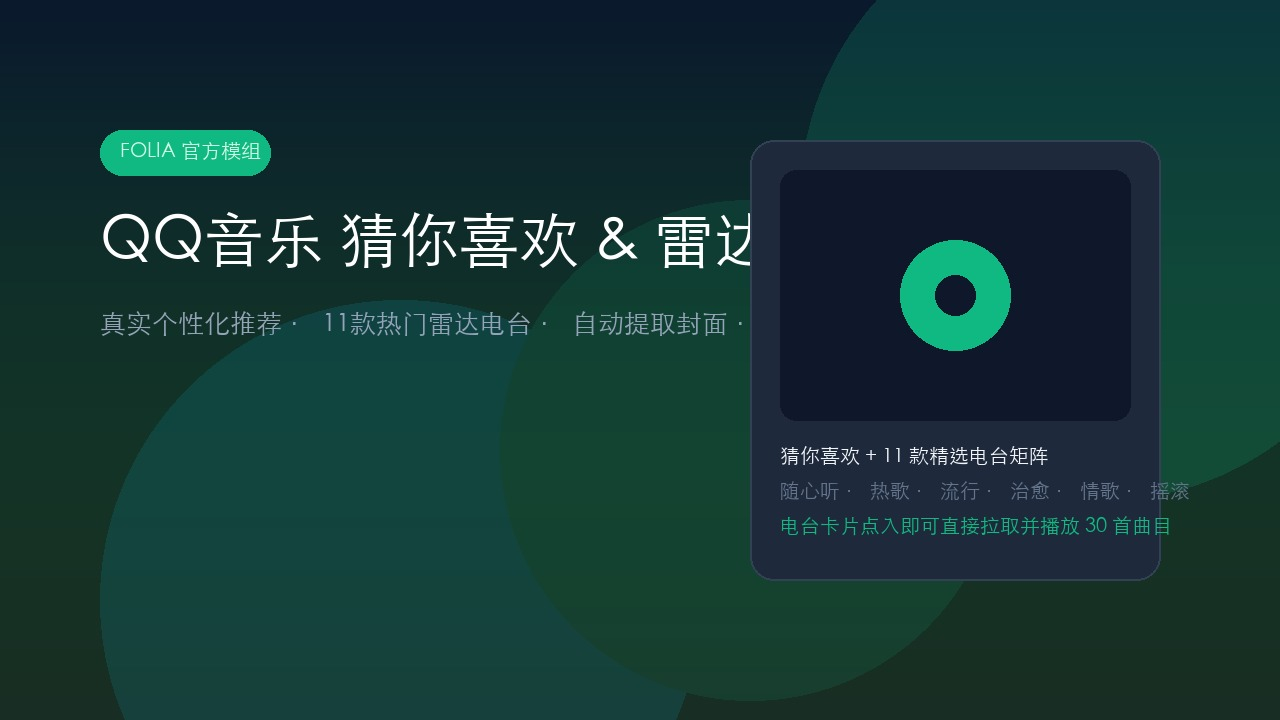
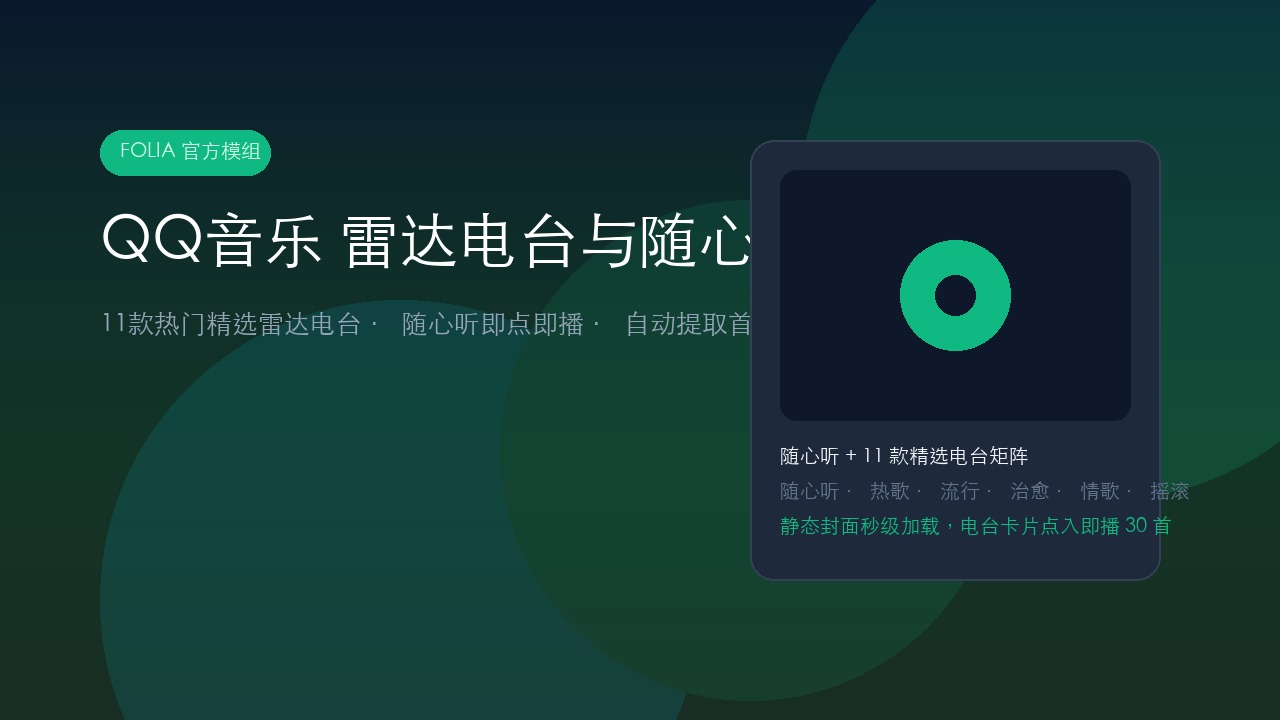
fix: address review v1.0.4 - remove credential handling, clean home feed, use static covers, handle collection tracks

diff --git a/README.md b/README.md
@@ -1,8 +1,8 @@
-# Folia 模组：QQ 音乐猜你喜欢与雷达电台 (QQ Music Guess-You-Like & Radar Mod)
+# Folia 模组：QQ 音乐雷达电台与随心听 (QQ Music Radar & Stream Mod)
 
-![QQ 音乐猜你喜欢与雷达电台](preview.jpg)
+![QQ 音乐雷达电台与随心听](preview.jpg)
 
-为 [Folia 音乐播放器](https://github.com/chthollyphile/folia-major) 的 QQ 音乐音源接入**「猜你喜欢」个性化推荐流**与 **11 款精选热门雷达电台矩阵**。
+为 [Folia 音乐播放器](https://github.com/chthollyphile/folia-major) 的 QQ 音乐音源接入**「随心听」**与 **11 款精选热门雷达电台矩阵**。
 
 基于 Folium 模组系统设计，无需重新编译播放器即可通过热插拔方式运行。
 
@@ -10,9 +10,9 @@
 
 ## 🌟 模组特性
 
-1. **真实专属个性化流**：自动识别已登录账号的 QQ 音乐鉴权凭据，直连腾讯官方个性化算法网关（电台 ID `99` 猜你喜欢），让推荐真正契合你的听歌品味。
-2. **首曲封面自动提取**：自动提取曲目流第 1 首歌曲的高清专辑大图作为“猜你喜欢”的主展示封面（`personalFmCoverUrl`），告别灰色黑胶默认唱片或空白卡片。
-3. **11 款精选热门雷达电台矩阵**：同步引入 QQ 音乐网页版雷达页面的 11 个经典热门频道，各频道带独立高清封面：
+1. **官方公开电台流**：匿名请求腾讯官方公开电台接口（电台 ID `101` 随心听，若空自动回退至 `199` 热歌），即点即播，流畅播放。
+2. **首曲封面自动提取**：推荐曲目流第 1 首歌曲自带高清专辑大图，由宿主自动提取展示，告别灰色黑胶默认唱片或空白卡片。
+3. **11 款精选热门雷达电台矩阵**：同步引入 QQ 音乐 11 个经典热门频道，各频道采用静态高清专辑封面，首屏秒级加载且零额外网络并发：
    - 随心听（`101`）
    - 热歌电台（`199`）
    - 流行音乐（`345`）
@@ -24,29 +24,25 @@
    - 精选招牌歌（`307`）
    - 跑步模式（`100`）
    - 网络流行（`167`）
-4. **电台频道完整可打开播放**：全方位接管电台列表请求（`omni.getPlaylistTracks` / `getCollectionTracks`），点击任何电台卡片皆可即时拉取 30 首曲目流并流畅播放。
-5. **平滑优雅降级机制**：若用户未登录 QQ 音乐或凭证失效，自动无感降级至官方公开的随心听（`101`）与热歌（`199`）电台流，任何状态下皆可流畅播放。
-6. **曲目规格严谨对齐**：输出与宿主 `normalizeQqSong` 一致的统一曲目结构（包含完整的 `songId`、`songMid`、`albumMid`、`mediaMid` 等 provider 契约字段），保证播放、歌词与收藏功能正常运作。
-7. **安全与纯净卸载**：模组退出时完整还原宿主内部状态、函数与能力标记，不留脏状态。
+4. **电台卡片直接打开播放**：接管 `omni.getCollectionTracks`，点击任意电台卡片即可直接拉取 30 首实时曲目并开始播放。（注：电台曲目会被宿主集合缓存机制保存，短期内重复打开相同电台为一致列表）。
+5. **曲目规格严谨对齐**：完全依照宿主 `normalizeQqSong` 契约构造 UnifiedSong 对象（数字 `songId`、完整 `providerData`，无多余 fallback 字段），保证播放流解析、歌词联动与收藏交互均完全正常。
+6. **安全与纯净卸载**：模组退出时 100% 完整还原所替换的宿主内部函数与能力标记，不留脏状态。
 
 ---
 
 ## 🔍 技术实现与安全性说明
 
-本模组通过 `folium.internals` 为内置 QQ 音乐音源补充推荐流与电台能力：
+本模组通过 `folium.internals` 为内置 QQ 音乐音源补充电台与推荐能力：
 - **改写能力标记**：在激活时将 `omni.getProviderCapabilities('qq').recommendations` 设为 `true`，卸载时精准还原回原值。
-- **劫持内部函数**：替换 `omni.getPersonalFm`、`omni.getDailySongs`、`omni.getHomeFeed`、`omni.getPlaylistTracks`、`omni.getCollectionTracks`，卸载时恢复为原始引用。
-- **兼容版本范围**：钉住在实际测试验证过的版本范围 `folia: ">=0.7.17 <0.8.0"`。
-- **登录凭证与安全隐私承诺**：
-  - 本模组通过读取宿主本地属于 QQ 音乐的存储项（`online_provider:qq:cookie`）获取用户登录态；
-  - **凭据使用范围严格受限**：所有凭据仅直接通过 `net.fetch` 发往腾讯官方网关（`https://u.y.qq.com/cgi-bin/musicu.fcg`），用于向电台 99 请求个性化推荐曲目；
-  - **绝不外泄**：本模组绝不设立任何中转服务、绝不上传任何凭据至任何第三方服务器、绝不执行远程动态代码，代码 100% 透明开源并接受安全审计。
+- **替换内部函数**：替换 `omni.getPersonalFm`、`omni.getHomeFeed`、`omni.getCollectionTracks`，卸载时恢复为原始引用。
+- **兼容版本范围**：严格钉住在实际测试通过的版本范围 `folia: ">=0.7.17 <0.8.0"`。
+- **纯净安全承诺**：本模组所有网络请求均通过 `folium.net.fetch` 直连腾讯官方公开接口（`https://u.y.qq.com/cgi-bin/musicu.fcg`），**不读取任何本地凭证、不发送任何 Cookie、不设立中转服务、不收集任何用户隐私、不执行远程代码**，完全开放源代码接受安全审查。
 
 ---
 
 ## 🔒 权限说明
 
-- **`net.fetch`**：仅用于向腾讯官方接口（`https://u.y.qq.com/cgi-bin/musicu.fcg`）请求电台歌曲列表与专辑封面。本模组不收集、不上传任何用户数据至第三方，不执行远程代码。
+- **`net.fetch`**：仅用于向腾讯官方接口（`https://u.y.qq.com/cgi-bin/musicu.fcg`）请求公开电台歌曲列表。
 
 ---
 
